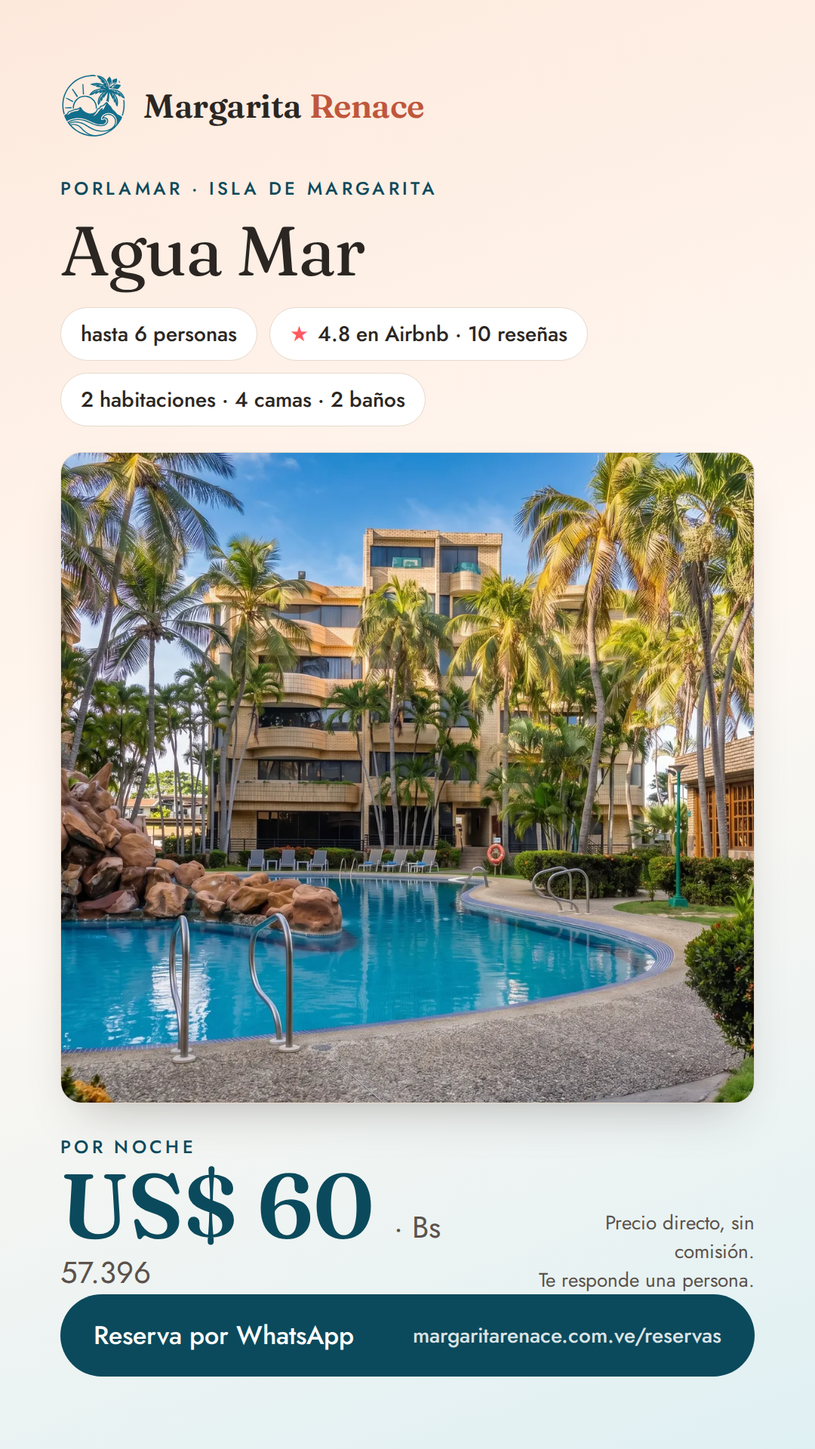
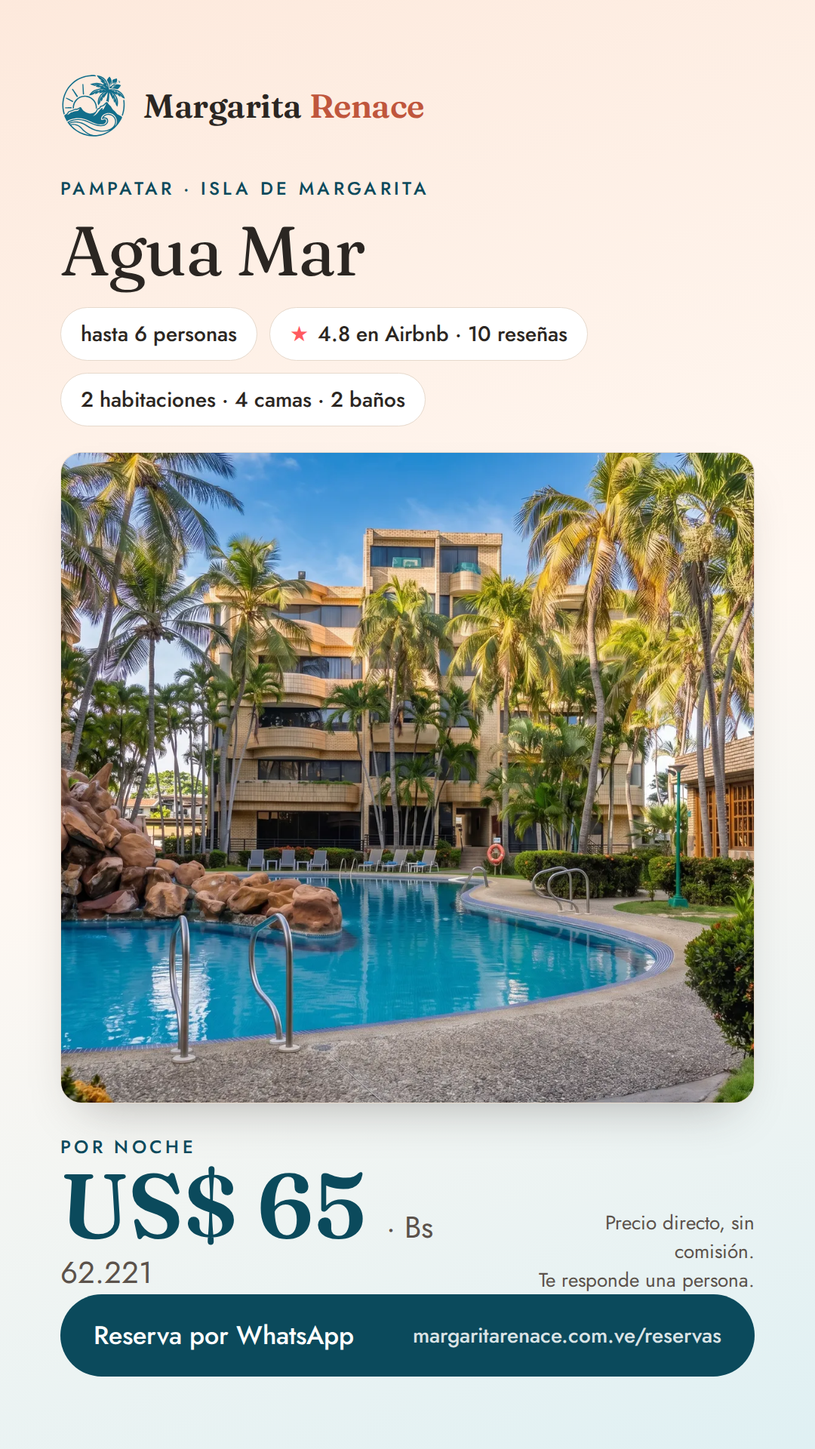
Cupón al 10 %, copiable y con selector de apartamento; límite por IP; marcar usado en CRM; precios a US5; ratings inventados fuera; plantillas regeneradas

diff --git a/lib/paginas-intencion.ts b/lib/paginas-intencion.ts
@@ -13,13 +13,13 @@ export const PAGINAS: PaginaIntencion[] = [
   {
     slug: 'apartamentos-con-piscina-en-margarita',
     titulo: 'Apartamentos con piscina en Isla de Margarita para 6 personas',
-    descripcion: 'Cuatro apartamentos en conjuntos cerrados con piscina en Pampatar —Los Geranios, La Caranta y Playa El Ángel—: US$60 la noche para hasta 6 personas, reserva directa por WhatsApp.',
+    descripcion: 'Cuatro apartamentos en conjuntos cerrados con piscina en Pampatar —Los Geranios, La Caranta y Playa El Ángel—: US$65 la noche para hasta 6 personas, reserva directa por WhatsApp.',
     h1: ['Apartamentos con piscina', 'para toda la familia'],
     intro: 'En Margarita la piscina no es lujo: es lo que salva la tarde cuando el sol pega a las 2 y los niños ya no quieren arena. Nuestros cuatro apartamentos están en conjuntos cerrados con piscina, vigilancia y estacionamiento, a minutos del Sambil y de las playas del este.',
     secciones: [
       { titulo: 'Qué incluye cada apartamento', parrafos: ['Dos habitaciones, dos baños, cocina equipada, aire acondicionado, Wi-Fi y capacidad para 6 personas (Bahía Mágica admite hasta 9 con niños). Piscina del conjunto, y en Agua Mar piscina en la azotea con vista al mar. Sábanas, toallas y una guía de la isla con QR en la puerta.', 'Los cuatro tienen valoración 4.8–5.0 en Airbnb con reseñas reales; puedes reservar allá o directo con nosotros al mismo precio y sin comisión.'] },
       { titulo: 'Los Geranios, La Caranta o Playa El Ángel: cuál elegir', parrafos: ['Los cuatro están en Pampatar. Los Geranios A y el Depto de lujo, en la urbanización Los Geranios, si viajas con niños pequeños: cancha y parque infantil dentro del conjunto, Sambil a 5 minutos. Bahía Mágica, en La Caranta, si quieres el castillo, el malecón y la bahía calmada caminando. Agua Mar, en Playa El Ángel, si prefieres piscina en la azotea con vista al mar y Porlamar a 10 minutos.'] },
-      { titulo: 'Cuánto cuesta y cómo se paga', parrafos: ['US$60 la noche en los cuatro, para hasta 6 personas. Se paga en dólares (Zelle, Binance/USDT, efectivo) o en bolívares por pago móvil a la tasa USDT del día. Confirmas con el 50 % y firmas el contrato de hospedaje desde tu teléfono; el saldo, al llegar.'] },
+      { titulo: 'Cuánto cuesta y cómo se paga', parrafos: ['US$65 la noche en los cuatro, para hasta 6 personas. Se paga en dólares (Zelle, Binance/USDT, efectivo) o en bolívares por pago móvil a la tasa USDT del día. Confirmas con el 50 % y firmas el contrato de hospedaje desde tu teléfono; el saldo, al llegar.'] },
     ],
     faq: [
       { q: '¿La piscina es privada o compartida?', a: 'Es la del conjunto residencial, compartida con los vecinos y con horario (normalmente de 8 de la mañana a 6 de la tarde). En Agua Mar está en la azotea del edificio.' },
@@ -35,12 +35,12 @@ export const PAGINAS: PaginaIntencion[] = [
     h1: ['Quedarte un mes', 'en la isla'],
     intro: 'Cada vez más gente viene a Margarita por semanas: venezolanos de afuera que visitan a la familia en diciembre, parejas que trabajan remoto frente al mar, personas que vienen a resolver papeles o una venta. Para eso hace falta más que una habitación: cocina de verdad, internet que aguante videollamadas, lavandería cerca y alguien que responda cuando se va el agua.',
     secciones: [
-      { titulo: 'Qué cambia en una estadía larga', parrafos: ['Precio: la tarifa por noche es US$60; para 28 noches o más hacemos un precio mensual cerrado, a consultar según fechas y apartamento (no lo publicamos porque depende de la temporada y preferimos decirte un número real que uno de folleto). Incluye agua, luz e internet; la limpieza semanal se acuerda aparte.', 'Contrato: el mismo contrato de hospedaje con firma electrónica, con la cláusula de duración adaptada. No es arrendamiento de vivienda ni genera derecho de permanencia: es hospedaje temporal, con fecha de salida.', 'Servicios: te dejamos conectados con nuestros aliados —agua en botellón a domicilio, lavandería con delivery, alquiler de carro por semanas, farmacia— y la guía con los supermercados y los sitios donde comer barato entre semana.'] },
+      { titulo: 'Qué cambia en una estadía larga', parrafos: ['Precio: la tarifa por noche es US$65; para 28 noches o más hacemos un precio mensual cerrado, a consultar según fechas y apartamento (no lo publicamos porque depende de la temporada y preferimos decirte un número real que uno de folleto). Incluye agua, luz e internet; la limpieza semanal se acuerda aparte.', 'Contrato: el mismo contrato de hospedaje con firma electrónica, con la cláusula de duración adaptada. No es arrendamiento de vivienda ni genera derecho de permanencia: es hospedaje temporal, con fecha de salida.', 'Servicios: te dejamos conectados con nuestros aliados —agua en botellón a domicilio, lavandería con delivery, alquiler de carro por semanas, farmacia— y la guía con los supermercados y los sitios donde comer barato entre semana.'] },
       { titulo: 'Internet y trabajo remoto', parrafos: ['Los apartamentos tienen Wi-Fi de fibra; te decimos la velocidad real del que elijas antes de reservar. Los cortes de luz existen en la isla: te contamos cómo son en cada zona y qué hacer (Porlamar y Pampatar suelen tener mejor servicio que el norte). Para datos móviles, Digitel es la operadora con mejor cobertura; con el pasaporte compras una línea en el Sambil.'] },
       { titulo: 'Zonas para vivir un mes', parrafos: ['Nuestros cuatro apartamentos están en Pampatar, la zona más cómoda para el día a día (Sambil, clínicas, farmacias, bahía calmada). Los Geranios para familias, La Caranta para vivir frente al castillo y el malecón, Playa El Ángel a mitad de camino de Porlamar. Todos a menos de 25 minutos del aeropuerto.'] },
     ],
     faq: [
-      { q: '¿Cuánto cuesta un apartamento por mes en Margarita?', a: 'Nuestra tarifa base es US$60 la noche; para un mes hacemos un precio cerrado según temporada y apartamento, siempre menor que 30 noches sueltas. Escríbenos con las fechas y te respondemos con el número exacto en el día.' },
+      { q: '¿Cuánto cuesta un apartamento por mes en Margarita?', a: 'Nuestra tarifa base es US$65 la noche; para un mes hacemos un precio cerrado según temporada y apartamento, siempre menor que 30 noches sueltas. Escríbenos con las fechas y te respondemos con el número exacto en el día.' },
       { q: '¿Puedo pagar en bolívares mes a mes?', a: 'Sí, por pago móvil a la tasa USDT del día de cada pago, o en dólares por Zelle o Binance. El contrato deja por escrito la forma y las fechas de pago.' },
       { q: '¿Se puede recibir correspondencia o trabajar desde el apartamento?', a: 'Sí a ambas. Cada apartamento tiene mesa de trabajo y Wi-Fi; la correspondencia llega a la conserjería del conjunto.' },
     ],
@@ -53,11 +53,11 @@ export const PAGINAS: PaginaIntencion[] = [
     h1: ['¿Cuánto cuesta', 'ir a Margarita?'],
     intro: 'La pregunta que más nos hacen por WhatsApp. Aquí va la respuesta con nuestros precios reales y referencias de la isla a septiembre de 2026; lo que varía con la temporada lo decimos como rango. Todo en dólares, que es como se cotiza en la isla; en bolívares se paga a la tasa USDT del día.',
     secciones: [
-      { titulo: 'Alojamiento: lo único que sabemos exacto', parrafos: ['Apartamento nuestro con piscina para hasta 6 personas: US$60 la noche → US$300 por 5 noches, sin comisión de plataforma. Dividido entre 4 personas son US$15 por persona y noche, menos que una habitación de hotel. En Airbnb el mismo apartamento cuesta lo mismo más la comisión de la plataforma.'] },
+      { titulo: 'Alojamiento: lo único que sabemos exacto', parrafos: ['Apartamento nuestro con piscina para hasta 6 personas: US$65 la noche → US$325 por 5 noches, sin comisión de plataforma. Dividido entre 4 personas son US$16 por persona y noche, menos que una habitación de hotel. En Airbnb el mismo apartamento cuesta lo mismo más la comisión de la plataforma.'] },
       { titulo: 'Llegar y moverse', parrafos: ['Traslado aeropuerto–apartamento: precio cerrado por WhatsApp con nosotros; un taxi de la parada del aeropuerto a Pampatar suele pedir US$15–20. Carrito por puesto dentro de la isla: menos de un dólar en bolívares por tramo. Ridery (carros por app) en Porlamar–Pampatar: US$3–6 por viaje. Alquiler de carro por día: desde unos US$35–50 según modelo, útil solo si vas a recorrer el norte y Macanao.'] },
       { titulo: 'Comer', parrafos: ['Desayuno margariteño de empanadas de cazón y jugo: US$3–5 por persona. Almuerzo de pescado frito en la playa con acompañantes: US$10–15. Cena en restaurante de Porlamar o Costa Azul: US$12–25 por persona. Pizza o comida árabe a domicilio para 4: US$25–35. Mercado en Sigo o Río para cocinar en el apartamento: una compra de US$60–80 rinde varios días para 4 personas. El agua en botellón de 19 litros a domicilio: US$2–3.'] },
       { titulo: 'Playas y salidas', parrafos: ['Las playas son gratis; toldo y dos sillas se alquilan por US$5–10 el día. Castillos y museos: entrada económica en bolívares. Lancha a Coche o Cubagua: excursión por persona a consultar con el operador (en la guía están sus teléfonos). Clase de kite en El Yaque: por horas, la más cara de las actividades. Senderismo guiado al Matasiete: por persona, según ruta.'] },
-      { titulo: 'El total, para que planifiques', parrafos: ['Pareja, 5 noches, sin carro, comiendo mitad afuera y mitad en el apartamento: alojamiento US$300 + traslados US$40 + comida US$180–250 + playas y salidas US$60–100 ≈ US$600–700 sin vuelos. Familia de 4 en el mismo plan: alojamiento igual (US$300), comida US$350–450, traslados y salidas US$120–180 ≈ US$800–950. Lo que más cambia el total es el vuelo o el ferry, no la isla.'] },
+      { titulo: 'El total, para que planifiques', parrafos: ['Pareja, 5 noches, sin carro, comiendo mitad afuera y mitad en el apartamento: alojamiento US$325 + traslados US$40 + comida US$180–250 + playas y salidas US$60–100 ≈ US$625–725 sin vuelos. Familia de 4 en el mismo plan: alojamiento igual (US$325), comida US$350–450, traslados y salidas US$120–180 ≈ US$825–975. Lo que más cambia el total es el vuelo o el ferry, no la isla.'] },
     ],
     faq: [
       { q: '¿Es más barato pagar en bolívares o en dólares?', a: 'Da igual si la tasa es la USDT del día, que es la que usamos nosotros y la mayoría de los comercios. Cuidado con quien cobra a tasa BCV en bolívares y luego «redondea»: pregunta siempre la tasa antes de pagar.' },

diff --git a/lib/zones-content-extra.ts b/lib/zones-content-extra.ts
@@ -7,18 +7,18 @@ export const ZONE_EXTRA: Record<string, string[]> = {
   pampatar: [
     'Distancias reales desde Pampatar: el aeropuerto Santiago Mariño queda a 25 minutos en carro (unos US$15–20 en taxi, o con nuestro traslado a precio cerrado); Playa El Agua a 30 minutos; El Yaque a 30; Porlamar a 10. La bahía tiene tres playas urbanas —Pampatar frente al castillo, Playa Moreno y Playa El Ángel— para un baño rápido sin manejar.',
     'Para resolver el día a día: Sigo y Río (supermercados) están a menos de 10 minutos; Farmatodo abre hasta tarde; el agua en botellón la traen Caribest Water y Recargas La Perla, nuestros aliados; y para comer, en la propia bahía hay pescado fresco en los restaurantes del malecón y, a domicilio, empanadas de Ketchup Hot y El Rey de las Empanadas. Todo eso está en nuestra guía con teléfono y horario de hoy.',
-    'Nuestros cuatro apartamentos están en Pampatar: Los Geranios A y Los Geranios · Depto de lujo en la urbanización Los Geranios (conjunto cerrado con vigilancia, piscina, cancha y parque infantil, a 5 minutos del Sambil); Bahía Mágica en La Caranta, el sector del castillo y el malecón; y Agua Mar en Playa El Ángel, entre Pampatar y Porlamar, con piscina en la azotea. Cuestan US$60 la noche para hasta 6 personas, en dólares o en bolívares a la tasa USDT del día, con contrato de hospedaje firmado desde el teléfono.',
+    'Nuestros cuatro apartamentos están en Pampatar: Los Geranios A y Los Geranios · Depto de lujo en la urbanización Los Geranios (conjunto cerrado con vigilancia, piscina, cancha y parque infantil, a 5 minutos del Sambil); Bahía Mágica en La Caranta, el sector del castillo y el malecón; y Agua Mar en Playa El Ángel, entre Pampatar y Porlamar, con piscina en la azotea. Cuestan US$65 la noche para hasta 6 personas, en dólares o en bolívares a la tasa USDT del día, con contrato de hospedaje firmado desde el teléfono.',
     'Cuándo venir: la temporada alta es Carnaval, Semana Santa, agosto y del 20 de diciembre al 6 de enero; en esas fechas conviene reservar con un mes de anticipación. De mayo a julio y de septiembre a noviembre la isla está tranquila, el mar en calma y los precios de vuelos bajan. Pampatar tiene menos viento que El Yaque y menos ruido que Porlamar, por eso es la zona que recomendamos a familias con niños pequeños.',
   ],
   porlamar: [
     'Porlamar está a 15 minutos del aeropuerto y es el nudo de transporte de la isla: de aquí salen los carritos por puesto hacia todas las playas y aquí operan Ridery y las líneas de taxi. Si vienes sin carro, es la zona que menos te obliga a alquilar uno. La avenida 4 de Mayo, la Santiago Mariño y el bulevar Gómez concentran el comercio; el Centro Comercial La Vela y Rattan Plaza están en la salida hacia Pampatar.',
     'Comer en Porlamar es fácil y barato: el desayuno margariteño de empanadas de cazón en El Empanadazo (Playa La Caracola, desde las 7), Rosita Cocina en la calle Marcano, Francelina Food y El Remo entre los más reseñados de la ciudad, y de noche los clubes 1900, GOA y El Patio. La comunidad árabe de la isla dejó una cocina propia: Zaituzaatar lleva shawarma y kibbe a domicilio.',
-    'No tenemos apartamento dentro del casco de Porlamar: el más cercano es Agua Mar, en Playa El Ángel (Pampatar), a 10 minutos en carro del centro: penthouse con piscina en la azotea y vista al mar, US$60 la noche para hasta 6 personas, valoración 4.8 en Airbnb.',
+    'No tenemos apartamento dentro del casco de Porlamar: el más cercano es Agua Mar, en Playa El Ángel (Pampatar), a 10 minutos en carro del centro: penthouse con piscina en la azotea y vista al mar, US$65 la noche para hasta 6 personas, valoración 4.8 en Airbnb.',
     'Un dato práctico: Porlamar es donde más se paga en bolívares por pago móvil y donde más cajeros hay; para cambiar dólares en efectivo está Italcambio en el Sambil (a 15 minutos). Playa El Morro y la costa de Bella Vista son para caminar al atardecer más que para bañarse; para nadar, Pampatar o Costa Azul quedan a 10 minutos.',
   ],
   'costa-azul': [
     'Costa Azul es la zona hotelera moderna de la isla, entre Porlamar y Pampatar: avenida Bolívar, edificios altos frente al mar, el Sambil a 5 minutos y Playa Moreno y Playa El Ángel a distancia de caminar. Es donde más restaurantes nuevos abren y donde está la Central Taxi Costa Azul, útil de noche.',
-    'Nuestro apartamento más cercano a Costa Azul es Bahía Mágica, en La Caranta (Pampatar), a 5 minutos: conjunto cerrado con piscina y áreas verdes, US$60 la noche para hasta 6 personas, valoración 5.0 en Airbnb. Desde ahí, el Castillo de Pampatar queda a 5 minutos, el aeropuerto a 25 y Playa El Agua a 35.',
+    'Nuestro apartamento más cercano a Costa Azul es Bahía Mágica, en La Caranta (Pampatar), a 5 minutos: conjunto cerrado con piscina y áreas verdes, US$65 la noche para hasta 6 personas, valoración 5.0 en Airbnb. Desde ahí, el Castillo de Pampatar queda a 5 minutos, el aeropuerto a 25 y Playa El Agua a 35.',
     'Para quien viene a hacer compras o a comer bien, Costa Azul es el punto medio perfecto: Guuao Marketplace para licores y una copa de noche (cierra a las 12), Sigo Costa Azul para el mercado grande al llegar, farmacias abiertas hasta tarde y decenas de restaurantes en la avenida. El agua a domicilio la resuelven Caribest Water y Agua Light, ambos con reparto en la zona.',
     'La playa de Costa Azul es urbana y de oleaje suave, buena para caminar y para un baño rápido; para pasar el día en playa grande conviene ir a El Agua o Parguito (35 minutos) o a El Yaque (30). Si viajas con adolescentes, es la zona con más movimiento nocturno seguro de la isla.',
   ],
@@ -36,7 +36,7 @@ export const ZONE_EXTRA: Record<string, string[]> = {
   'playa-caribe': [
     'Playa Caribe está en la costa norte, entre Juan Griego y Manzanillo: arena clara, agua transparente y oleaje moderado, con pocos toldos y mucho espacio. Es de las playas más limpias y menos ruidosas de la isla, y la elegimos para el «día de playa tranquila» de nuestros huéspedes. Desde Pampatar son 45 minutos en carro.',
     'Hay pocos servicios: dos o tres kioscos de pescado frito y cerveza, estacionamiento a la sombra de los árboles y nada más. Lleva agua, sombrilla y efectivo. Al lado quedan Playa Zaragoza, con su pueblo de pescadores de casas coloniales, y Pedro González; en 15 minutos estás en el atardecer de Juan Griego.',
-    'No hay oferta de apartamentos nuestros aquí; es zona de excursión de día desde Pampatar, Pampatar, donde sí tenemos hospedaje a US$60 la noche. Con carro alquilado (DG Automóviles entrega en el apartamento) o con nuestro traslado por día se hace cómodo.',
+    'No hay oferta de apartamentos nuestros aquí; es zona de excursión de día desde Pampatar, Pampatar, donde sí tenemos hospedaje a US$65 la noche. Con carro alquilado (DG Automóviles entrega en el apartamento) o con nuestro traslado por día se hace cómodo.',
   ],
   'playa-parguito': [
     'Parguito es la playa del surf y de la gente joven: pegada a El Agua pero con carácter propio, oleaje fuerte del Atlántico, arena gruesa y menos toldos. Está en el municipio Antolín del Campo, costa este, a 30 minutos de Pampatar y 40 del aeropuerto.',
@@ -46,7 +46,7 @@ export const ZONE_EXTRA: Record<string, string[]> = {
   'playa-guacuco': [
     'Playa Guacuco está en la costa este, a 15 minutos de Porlamar y 20 de Pampatar por la carretera de La Asunción: playa larga y abierta, oleaje moderado, palmeras, y ambiente local de fin de semana. Su nombre viene del guacuco, la almeja pequeña que se recoge en la orilla y se come en sopa en los kioscos.',
     'Servicios: restaurantes de pescado a lo largo de la playa, alquiler de toldos y sillas, estacionamiento. A 10 minutos está La Asunción, la capital del estado, con el Castillo de Santa Rosa y la Casa de la Cultura; y a 15 el cruce de Guacuco, donde la Farmacia El Crucero hace delivery gratis.',
-    'Es una excelente playa de «medio día» para quien se aloja con nosotros en Pampatar o Porlamar: sales a las 8, te bañas cuando el sol todavía es amable, comes guacuco y pescado, y a las 2 estás de vuelta en la piscina del apartamento. Nuestros apartamentos quedan a 20 minutos y cuestan US$60 la noche.',
+    'Es una excelente playa de «medio día» para quien se aloja con nosotros en Pampatar o Porlamar: sales a las 8, te bañas cuando el sol todavía es amable, comes guacuco y pescado, y a las 2 estás de vuelta en la piscina del apartamento. Nuestros apartamentos quedan a 20 minutos y cuestan US$65 la noche.',
     'El acceso es fácil por carretera asfaltada y hay carritos por puesto desde Porlamar; si vas en temporada alta, llega antes de las 10 para estacionar cerca.',
   ],
   manzanillo: [

diff --git a/components/CuponBienvenida.tsx b/components/CuponBienvenida.tsx
@@ -3,7 +3,7 @@
 import { useEffect, useState } from 'react';
 import Link from 'next/link';
 import { AnimatePresence, motion, useReducedMotion } from 'motion/react';
-import { X } from 'lucide-react';
+import { Check, Copy, X } from 'lucide-react';
 import { pedirCuponAction } from '@/app/acciones/cupon';
 
 // El cupón de bienvenida: 5 % en la primera reserva directa + la guía de la
@@ -14,10 +14,14 @@ import { pedirCuponAction } from '@/app/acciones/cupon';
 // DESPUÉS de dar el código, opcional: no frena la conversión y suma al CRM.
 const CLAVE = 'mr:cupon';
 
-export default function CuponBienvenida() {
+export interface AptoCupon { slug: string; nombre: string; sector: string }
+
+export default function CuponBienvenida({ aptos = [] }: { aptos?: AptoCupon[] }) {
+  const [copiado, setCopiado] = useState(false);
+  const copiar = async () => { try { await navigator.clipboard.writeText(cupon); setCopiado(true); setTimeout(() => setCopiado(false), 1600); } catch {} };
   const [abierto, setAbierto] = useState(false);
   const [estado, setEstado] = useState<'form' | 'ok'>('form');
-  const [cupon, setCupon] = useState(''); const [pct, setPct] = useState(5);
+  const [cupon, setCupon] = useState(''); const [pct, setPct] = useState(10);
   const [error, setError] = useState<string | null>(null); const [enviando, setEnviando] = useState(false);
   const reducido = useReducedMotion();
 
@@ -63,8 +67,11 @@ export default function CuponBienvenida() {
               ) : (
                 <>
                   <p className="label-eyebrow mt-3 text-brand-deep">Tu código</p>
-                  <p className="mono-data mt-2 inline-block rounded-card border border-dashed border-brand-deep bg-white px-5 py-3 text-[26px] font-semibold tracking-[.12em] text-brand-deep">{cupon}</p>
-                  <p className="mt-3 text-meta text-ink-soft">Te lo enviamos también por correo. Vale una vez en tu primera reserva directa, sin vencimiento.</p>
+                  <button type="button" onClick={copiar} className="mono-data mt-2 inline-flex items-center gap-3 rounded-card border border-dashed border-brand-deep bg-white px-5 py-3 text-[24px] font-semibold tracking-[.12em] text-brand-deep" title="Copiar código">
+                    {cupon}{copiado ? <Check className="h-5 w-5 text-brand" /> : <Copy className="h-5 w-5 text-ink-muted" />}
+                  </button>
+                  <p className="mt-2 text-ui text-ink-muted">{copiado ? 'Copiado. Pégalo en la reserva o en el WhatsApp.' : 'Toca el código para copiarlo.'}</p>
+                  <p className="mt-2 text-meta text-ink-soft">Te lo enviamos también por correo. Vale una vez, en tu primera reserva directa de cualquier apartamento, traslado o carro. Sin vencimiento.</p>
                 </>
               )}
             </div>
@@ -79,6 +86,14 @@ export default function CuponBienvenida() {
               </form>
             ) : (
               <div className="space-y-3 px-6 pb-6 pt-5">
+                {aptos.length > 0 && (
+                  <div>
+                    <p className="text-ui font-semibold uppercase tracking-[0.12em] text-ink-subtle">Aplícalo en tu apartamento</p>
+                    <ul className="mt-2 grid grid-cols-2 gap-2">
+                      {aptos.map((a) => <li key={a.slug}><Link href={`/reservas?cupon=${encodeURIComponent(cupon)}&apto=${a.slug}`} onClick={cerrar} className="block rounded-card border border-line bg-paper px-3 py-2 text-left transition-colors hover:border-brand/40"><span className="block text-meta font-semibold leading-tight text-ink">{a.nombre}</span><span className="block text-[11px] text-ink-muted">{a.sector}</span></Link></li>)}
+                    </ul>
+                  </div>
+                )}
                 <Link href={`/reservas?cupon=${encodeURIComponent(cupon)}`} onClick={cerrar} className="btn-solid w-full justify-center">Calcular mi estadía con el descuento</Link>
                 <Link href="/guia" onClick={cerrar} className="flex min-h-[46px] w-full items-center justify-center rounded-control border border-line bg-white text-meta font-medium text-brand-deep hover:border-brand/40">Abrir la guía de la isla</Link>
               </div>

diff --git a/app/acciones/cupon.ts b/app/acciones/cupon.ts
@@ -1,13 +1,23 @@
 'use server';
 
 import { headers } from 'next/headers';
+import { createHash } from 'node:crypto';
 import { registrarContacto, marcarCorreoEnviado, descuentoDe } from '@/lib/contactos';
 import { correoConfigurado, enviarCorreo } from '@/lib/correo';
 import { correoCupon } from '@/lib/correo-plantillas';
 
-// Alta del cupón de bienvenida. Freno simple: 20 altas por hora por IP (via
-// tabla contactos + IP en utm? no guardamos IP: se limita por correo único y
-// por el patrón del correo). El correo se manda con Resend si está configurado.
+// Alta del cupón de bienvenida. Seguridad:
+//  · un cupón por correo (índice único; repetir devuelve el mismo código);
+//  · honeypot para bots;
+//  · límite en memoria por IP (5 altas/hora, con hash de la IP, no la IP) y
+//    global (60/hora) para que nadie llene el CRM con correos basura;
+//  · el cupón vale UNA vez: al confirmar la reserva se marca usado en el panel.
+const intentos = new Map<string, number[]>();
+function permitido(clave: string, max: number): boolean {
+  const ahora = Date.now(); const lista = (intentos.get(clave) ?? []).filter((t) => ahora - t < 3600_000);
+  if (lista.length >= max) { intentos.set(clave, lista); return false; }
+  lista.push(ahora); intentos.set(clave, lista); return true;
+}
 export async function pedirCuponAction(fd: FormData): Promise<{ ok: boolean; cupon?: string; pct?: number; error?: string; nuevo?: boolean }> {
   const nombre = String(fd.get('nombre') ?? '').trim().slice(0, 80);
   const email = String(fd.get('email') ?? '').trim().toLowerCase();
@@ -17,9 +27,12 @@ export async function pedirCuponAction(fd: FormData): Promise<{ ok: boolean; cup
   try { const u = new URL(pagina, 'https://margaritarenace.com.ve'); for (const k of ['utm_source', 'utm_medium', 'utm_campaign', 'utm_content']) { const v = u.searchParams.get(k); if (v) utm[k] = v.slice(0, 80); } } catch {}
   if (nombre.length < 2) return { ok: false, error: 'Dinos tu nombre.' };
   if (!/^[^\s@]+@[^\s@]+\.[^\s@]{2,}$/.test(email)) return { ok: false, error: 'Revisa el correo: parece incompleto.' };
-  if (fd.get('sitio')) return { ok: true, cupon: 'RENACE5-XXXX', pct: 5 }; // honeypot para bots
-  const ua = (await headers()).get('user-agent') ?? '';
+  if (fd.get('sitio')) return { ok: true, cupon: 'RENACE10-XXXX', pct: 10 }; // honeypot para bots
+  const h = await headers(); const ua = h.get('user-agent') ?? '';
   if (!ua) return { ok: false, error: 'No se pudo registrar.' };
+  const ip = (h.get('cf-connecting-ip') || h.get('x-forwarded-for') || '').split(',')[0].trim();
+  const ipHash = createHash('sha256').update('cupon:' + ip).digest('hex').slice(0, 16);
+  if (!permitido('ip:' + ipHash, 5) || !permitido('global', 60)) return { ok: false, error: 'Demasiados intentos por ahora. Escríbenos por WhatsApp y te damos el código.' };
   const { contacto, nuevo } = await registrarContacto({ nombre, email, telefono, origen: 'popup', pagina: pagina.split('?')[0], utm });
   if (nuevo && correoConfigurado()) {
     try { await enviarCorreo({ para: contacto.email, ...correoCupon(contacto.nombre, contacto.cupon, contacto.descuentoPct) }); await marcarCorreoEnviado(contacto.id); }

diff --git a/app/HomeClient.tsx b/app/HomeClient.tsx
@@ -903,10 +903,12 @@ export default function HomeClient({
                       <h2 className="font-serif text-title font-medium text-brand tracking-tight">{selectedProperty.name}</h2>
                       <p className="text-meta text-ink-muted mt-0.5 font-medium">{selectedProperty.location}</p>
                     </div>
-                    <div className="flex items-center gap-1.5 bg-paper text-amber-800 border border-line rounded-chip px-3 py-1.5 text-meta font-semibold">
-                      <Star className="w-3.5 h-3.5 fill-current text-amber-500" />
-                      <span>{selectedProperty.rating}</span>
-                    </div>
+                    {selectedProperty.airbnbRating != null && (
+                      <div className="flex flex-col items-end rounded-chip border border-line bg-paper px-3 py-1.5 text-meta font-semibold text-ink" title="Valoración real en Airbnb">
+                        <span className="flex items-center gap-1.5"><Star className="h-3.5 w-3.5 fill-[#FF5A5F] text-[#FF5A5F]" />{selectedProperty.airbnbRating.toFixed(1)}</span>
+                        <span className="text-[11px] font-normal text-ink-muted">{selectedProperty.airbnbResenas ? `${selectedProperty.airbnbResenas} reseñas · ` : ''}Airbnb</span>
+                      </div>
+                    )}
                   </div>
                   <p className="text-meta text-gray-600 leading-relaxed font-normal">{selectedProperty.description}</p>
                   {/* La página propia es la versión canónica y compartible del
@@ -1438,12 +1440,7 @@ function PropertyCard({ property, tasaBcv, onSelect }: PropertyCardProps) {
               <span className="mono-data flex items-center gap-1 text-ink"><Star className="h-3.5 w-3.5 fill-[#FF5A5F] text-[#FF5A5F]" aria-hidden="true" />{property.airbnbRating.toFixed(1)}</span>
               <span className="mt-1 text-[11px] text-ink-muted">{property.airbnbResenas ? `${property.airbnbResenas} reseñas · ` : ''}Airbnb</span>
             </span>
-          ) : property.isReal && property.rating !== null && (
-            <span className="mono-data flex shrink-0 items-center gap-1 text-ink-muted">
-              <Star className="h-3.5 w-3.5 fill-brand text-brand" aria-hidden="true" />
-              {property.rating.toFixed(1)}
-            </span>
-          )}
+          ) : null}
         </div>
 
         <p className="text-meta text-ink-soft line-clamp-2">{property.description}</p>

diff --git a/app/admin/(panel)/contactos/page.tsx b/app/admin/(panel)/contactos/page.tsx
@@ -1,7 +1,7 @@
 import { Download, Mail, Trash2 } from 'lucide-react';
 import { listarContactos } from '@/lib/contactos';
 import { Aviso, Cifra, Tarjeta } from '../_ui';
-import { borrarContactoAction } from './actions';
+import { alternarUsadoAction, borrarContactoAction } from './actions';
 
 // CRM: quién dejó su correo, con qué cupón, de dónde vino y si ya lo usó.
 // Exporta CSV para Mailchimp/Brevo o para una campaña desde Resend.
@@ -32,7 +32,8 @@ export default async function ContactosPage({ searchParams }: { searchParams: Pr
                 <td className="px-4 py-3 text-body font-semibold text-ink">{c.nombre || '—'}</td>
                 <td className="px-4 py-3 text-meta"><a href={`mailto:${c.email}`} className="inline-flex items-center gap-1.5 text-brand-deep hover:underline underline-offset-4"><Mail className="h-3.5 w-3.5" />{c.email}</a>{c.correoEnviadoAt ? '' : <span className="ml-2 text-ui text-ink-faint">sin correo enviado</span>}</td>
                 <td className="px-4 py-3 text-meta text-ink-muted">{c.telefono || '—'}</td>
-                <td className="px-4 py-3 font-mono text-ui">{c.cupon}{c.cuponUsadoAt && <span className="ml-1 text-ink-faint">· usado</span>}</td>
+                <td className="px-4 py-3 font-mono text-ui">{c.cupon}
+                  <form action={alternarUsadoAction} className="mt-1"><input type="hidden" name="id" value={c.id} /><input type="hidden" name="usado" value={c.cuponUsadoAt ? '0' : '1'} /><button type="submit" className={`rounded-chip border px-2 py-0.5 font-sans text-[11px] ${c.cuponUsadoAt ? 'border-line text-ink-muted' : 'border-brand-deep/40 text-brand-deep'}`}>{c.cuponUsadoAt ? 'usado · reactivar' : 'marcar usado'}</button></form></td>
                 <td className="px-4 py-3 text-ui text-ink-muted">{c.origen}{c.pagina ? ` · ${c.pagina}` : ''}{c.utm.utm_source ? ` · ${c.utm.utm_source}` : ''}</td>
                 <td className="px-4 py-3 font-mono text-ui text-ink-muted">{new Date(c.createdAt).toLocaleDateString('es-VE')}</td>
                 <td className="px-4 py-3 text-right"><form action={borrarContactoAction}><input type="hidden" name="id" value={c.id} /><button type="submit" title="Borrar" className="flex h-9 w-9 items-center justify-center rounded-control text-ink-faint hover:text-accent"><Trash2 className="h-4 w-4" /></button></form></td>

diff --git a/lib/contactos.ts b/lib/contactos.ts
@@ -15,7 +15,7 @@ const desde = (r: Record<string, unknown>): Contacto => ({
 function nuevoCupon(): string {
   const abc = 'ABCDEFGHJKLMNPQRSTUVWXYZ23456789'; let x = '';
   for (let i = 0; i < 4; i++) x += abc[randomInt(abc.length)];
-  return `RENACE5-${x}`;
+  return `RENACE10-${x}`;
 }
 
 /** Alta (o reencuentro) por correo: si ya existía, devuelve su cupón. */
@@ -40,8 +40,9 @@ export async function marcarCorreoEnviado(id: string) { await query(`UPDATE cont
 export async function listarContactos(): Promise<Contacto[]> { return (await rows<Record<string, unknown>>(`SELECT * FROM contactos ORDER BY created_at DESC`)).map(desde); }
 /** Valida un cupón (para /reservas): devuelve el % o null. */
 export async function descuentoDe(cupon: string): Promise<{ pct: number; nombre: string } | null> {
-  const c = cupon.trim().toUpperCase(); if (!/^RENACE5-[A-Z0-9]{4}$/.test(c)) return null;
+  const c = cupon.trim().toUpperCase(); if (!/^RENACE10-[A-Z0-9]{4}$/.test(c)) return null;
   const [r] = await rows<{ descuento_pct: number; nombre: string }>(`SELECT descuento_pct, nombre FROM contactos WHERE cupon = $1 AND cupon_usado_at IS NULL`, [c]);
   return r ? { pct: Number(r.descuento_pct), nombre: r.nombre } : null;
 }
 export async function borrarContacto(id: string) { await query(`DELETE FROM contactos WHERE id = $1`, [id]); }
+export async function marcarCuponUsado(id: string, usado: boolean) { await query(`UPDATE contactos SET cupon_usado_at = ${usado ? 'now()' : 'NULL'} WHERE id = $1`, [id]); }

diff --git a/app/guia/[slug]/page.tsx b/app/guia/[slug]/page.tsx
@@ -235,7 +235,7 @@ async function PaginaHub({ slug }: { slug: string }) {
           <ListaGuia cat="" escucha={false} lugares={propios.map((l) => ({ ...l, descripcion: l.descripcion.slice(0, 180), consejo: l.consejo.slice(0, 180), resumenGoogle: null, fotos: l.fotos.slice(0, 1), fotosGoogle: l.fotosGoogle.slice(0, 1).map((f) => ({ name: '', autor: f.autor })) }))} />
           <section className="section-gap rounded-panel bg-luz border border-line p-7 md:p-10">
             <h2 className="font-serif text-headline font-normal track-headline text-ink">¿Te quedas en la isla?</h2>
-            <p className="mt-3 max-w-2xl text-body text-ink-soft">Apartamentos en Pampatar (Los Geranios, La Caranta y Playa El Ángel) desde US$60 la noche, con precio claro y trato directo. Todo lo de esta guía queda cerca.</p>
+            <p className="mt-3 max-w-2xl text-body text-ink-soft">Apartamentos en Pampatar (Los Geranios, La Caranta y Playa El Ángel) desde US$65 la noche, con precio claro y trato directo. Todo lo de esta guía queda cerca.</p>
             <div className="mt-6 flex flex-wrap gap-3"><Link href="/" className="btn-solid">Ver hospedajes</Link>{wa && <a href={wa} rel="noopener" className="inline-flex min-h-[46px] items-center rounded-control border border-line bg-white px-5 text-meta font-medium text-brand-deep hover:border-brand/40">Reservar por WhatsApp</a>}</div>
           </section>
         </main>

diff --git a/app/layout.tsx b/app/layout.tsx
@@ -10,7 +10,7 @@ import { getContacto } from '@/lib/settings';
 import { SmoothScroll } from '@/components/SmoothScroll';
 import { Medidor } from '@/components/Medidor';
 import Consentimiento from '@/components/Consentimiento';
-import CuponBienvenida from '@/components/CuponBienvenida';
+import CuponBienvenidaServer from '@/components/CuponBienvenidaServer';
 import { marketing } from '@/lib/marketing';
 
 // Sistema de TRES tipografías con roles separados (ver REFERENCIA-DISENO.md).
@@ -194,7 +194,7 @@ export default async function RootLayout({children}: {children: React.ReactNode}
         {/* Medir el panel no aporta nada y ensuciaría las cifras del sitio. */}
         {!esPanel && <Medidor />}
         {!esPanel && !esEnlaces && <Consentimiento {...marketing()} />}
-        {!esPanel && !esEnlaces && !ruta.startsWith('/reservas') && <CuponBienvenida />}
+        {!esPanel && !esEnlaces && !ruta.startsWith('/reservas') && <CuponBienvenidaServer />}
         {!esPanel && !esEnlaces && !esHome && <NavBar whatsapp={contacto.whatsapp} />}
         {children}
         {/* En el layout, no en cada página: aparece igual en el home y en las

diff --git a/app/reservas/Calculadora.tsx b/app/reservas/Calculadora.tsx
@@ -26,7 +26,7 @@ export default function Calculadora({ aptos, whatsapp }: { aptos: Apto[]; whatsa
   const [descuento, setDescuento] = useState<{ pct: number; nombre: string } | null>(null);
   const [cuponError, setCuponError] = useState<string | null>(null);
   const aplicarCupon = async (c: string) => { const v = await validarCuponAction(c); setDescuento(v); setCuponError(v ? null : 'Ese código no existe o ya se usó.'); };
-  useEffect(() => { const c = new URLSearchParams(location.search).get('cupon'); if (c) { setCupon(c.toUpperCase()); aplicarCupon(c); } }, []);
+  useEffect(() => { const q = new URLSearchParams(location.search); const c = q.get('cupon'); if (c) { setCupon(c.toUpperCase()); aplicarCupon(c); } const a = q.get('apto'); if (a && aptos.some((x) => x.slug === a)) setSlug(a); }, []);
 
   useEffect(() => { fetch('/api/tasa').then((r) => r.json()).then((d) => setTasa(d.usdt ?? d.bcv ?? null)).catch(() => {}); }, []);
   useEffect(() => { if (!slug) return; setOcupado(null); fetch(`/api/disponibilidad/${slug}`).then((r) => r.json()).then((d) => setOcupado(d.ocupado ?? [])).catch(() => setOcupado([])); }, [slug]);

diff --git a/app/admin/(panel)/contactos/actions.ts b/app/admin/(panel)/contactos/actions.ts
@@ -1,9 +1,14 @@
 'use server';
 import { redirect } from 'next/navigation';
 import { usuarioActual } from '@/lib/auth';
-import { borrarContacto } from '@/lib/contactos';
+import { borrarContacto, marcarCuponUsado } from '@/lib/contactos';
 export async function borrarContactoAction(fd: FormData) {
   if (!(await usuarioActual())) redirect('/admin/login');
   const id = String(fd.get('id') ?? ''); if (/^[0-9a-f-]{36}$/.test(id)) await borrarContacto(id);
+  redirect('/admin/contactos?ok=1');
+}
+export async function alternarUsadoAction(fd: FormData) {
+  if (!(await usuarioActual())) redirect('/admin/login');
+  const id = String(fd.get('id') ?? ''); if (/^[0-9a-f-]{36}$/.test(id)) await marcarCuponUsado(id, fd.get('usado') === '1');
   redirect('/admin/contactos?ok=1');
 }

diff --git a/components/CuponBienvenidaServer.tsx b/components/CuponBienvenidaServer.tsx
@@ -1,0 +1,10 @@
+import CuponBienvenida from './CuponBienvenida';
+import { getProperties } from '@/lib/queries';
+
+// Pasa al popup la lista corta de apartamentos (nombre y sector) para que la
+// persona elija dónde aplicar el código.
+export default async function CuponBienvenidaServer() {
+  const props = await getProperties();
+  const aptos = props.filter((p) => !p.priceOnRequest && p.pricePerNight > 0).map((p) => ({ slug: p.slug, nombre: p.name, sector: p.sector || p.zone }));
+  return <CuponBienvenida aptos={aptos} />;
+}
